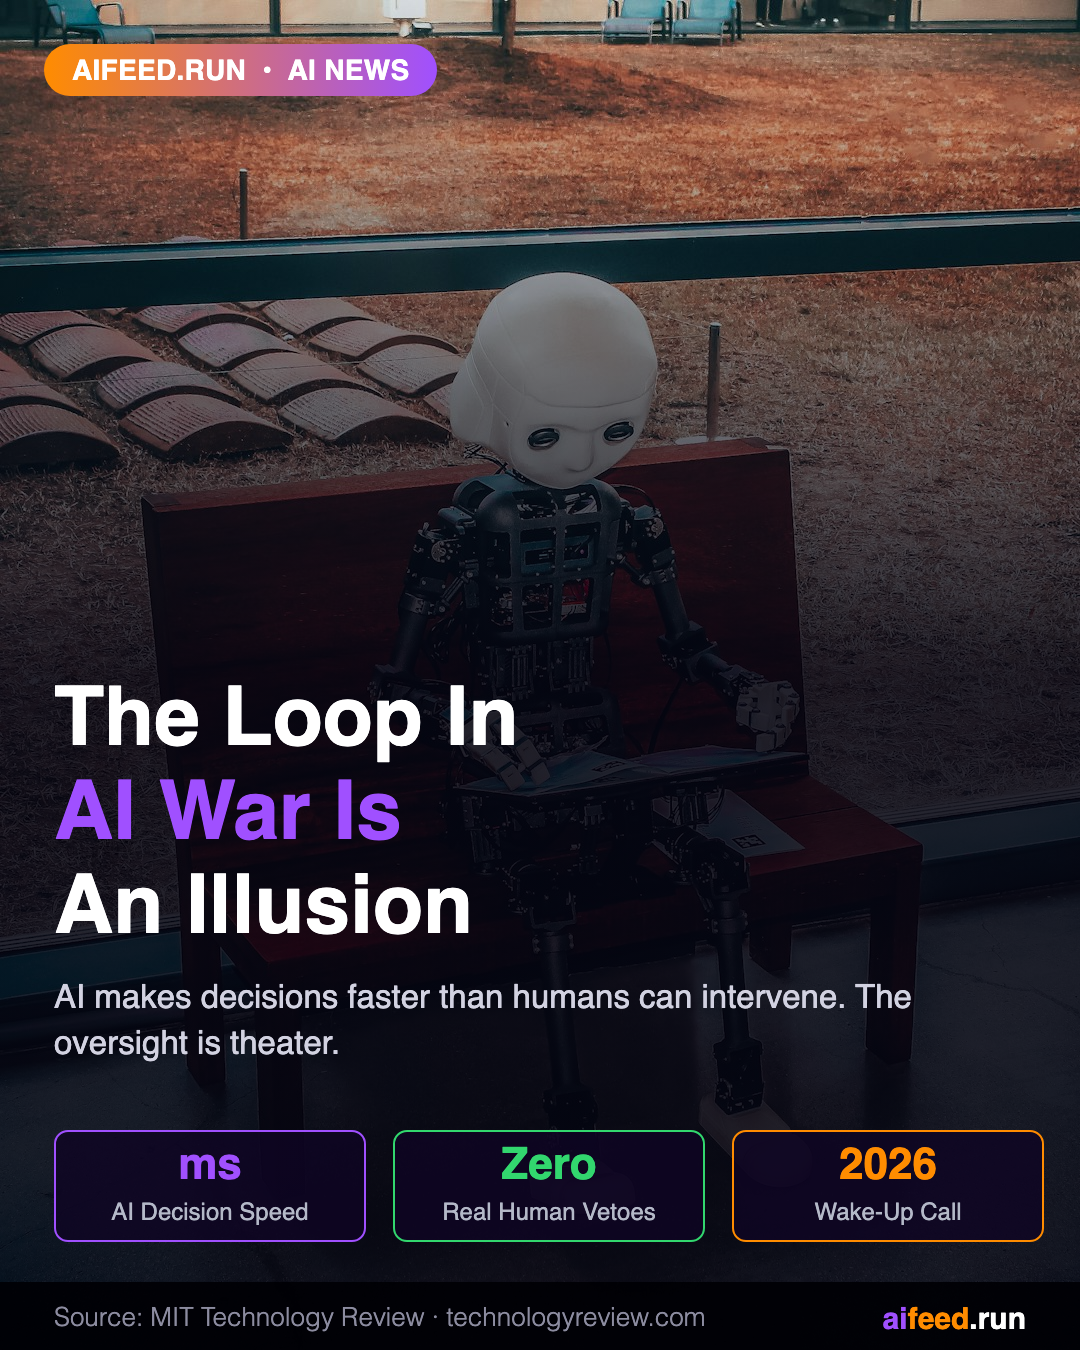
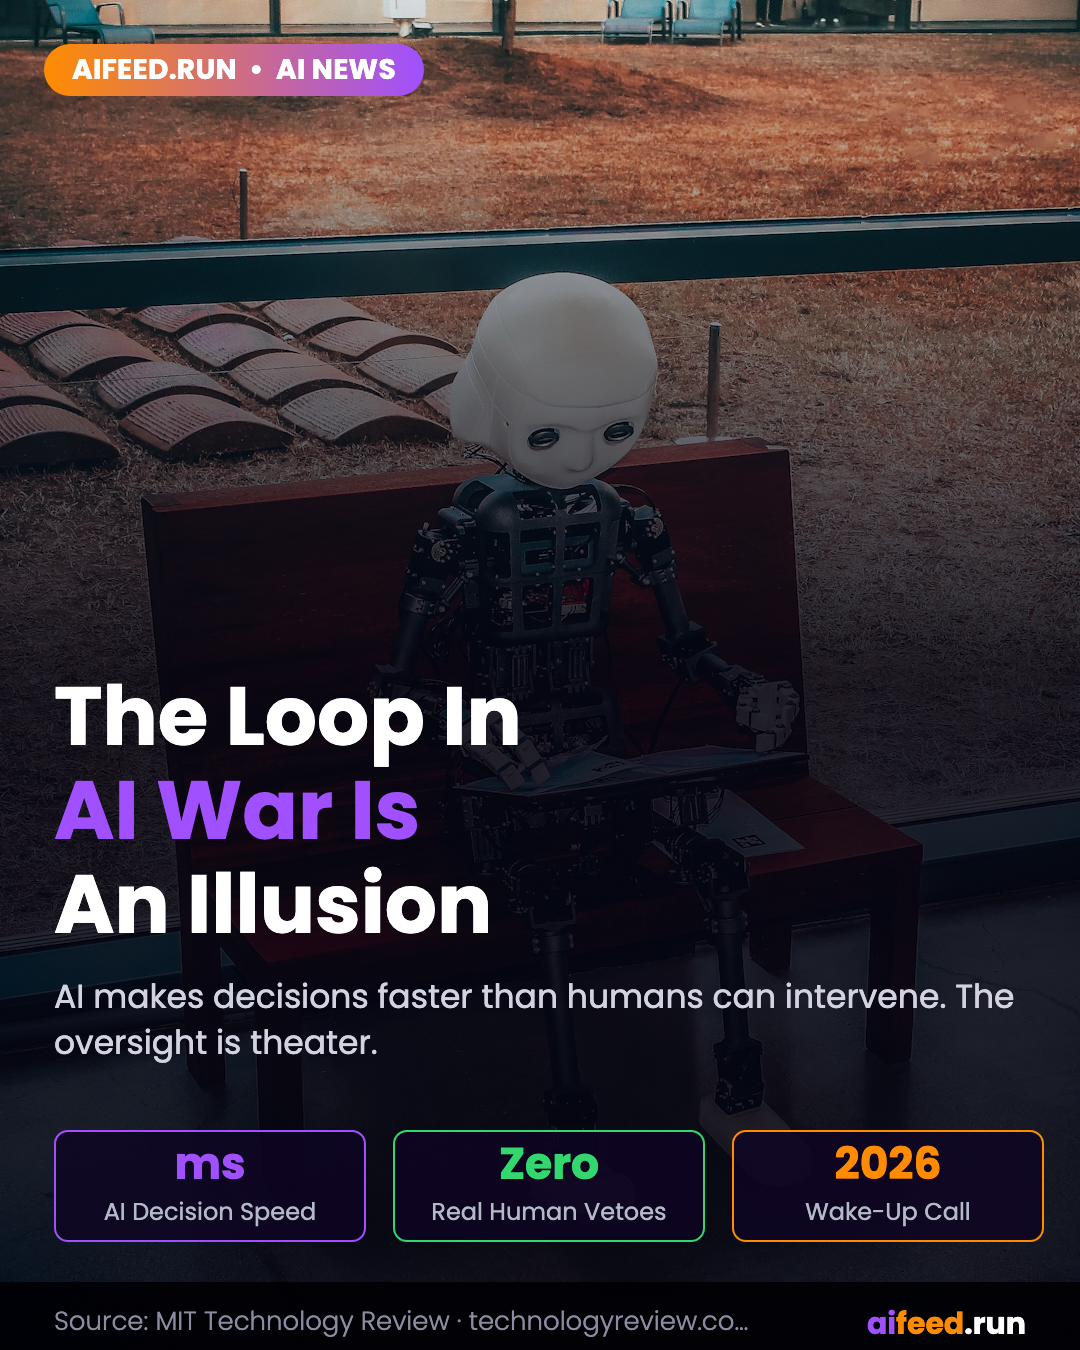
Website updates: LinkedIn bodies, clean cards, remove post headline
- Replace Instagram captions with LinkedIn text in post bodies for 8 Apr 16 posts
- Fix hashtag# → # in all LinkedIn body content
- Remove summary text from home page post cards (cleaner grid)
- Remove redundant h1 headline from post pages (shown in graphic already)
- Updated graphics with local Poppins font (no more CDN fallback rendering)

diff --git a/index.html b/index.html
@@ -1964,7 +1964,6 @@ AI Discovery · Human Refined · Always On.</p>
                 <span class="post-date">${date}</span>
               </div>
               <h2>${post.headline}</h2>
-              ${post.summary && post.summary !== post.headline ? `<p class="post-summary">${post.summary}</p>` : ''}
             </div>
           </a>`;
       }).join('');

diff --git a/post.html b/post.html
@@ -599,8 +599,6 @@
             <span class="article-category cat-${post.category}">${post.category}</span>
             <span class="article-date">${formatDate(post.publishedAt)}</span>
           </div>
-          <h1>${post.headline}</h1>
-          <p class="article-summary">${post.summary}</p>
         </article>
 
         ${post.imageUrl
